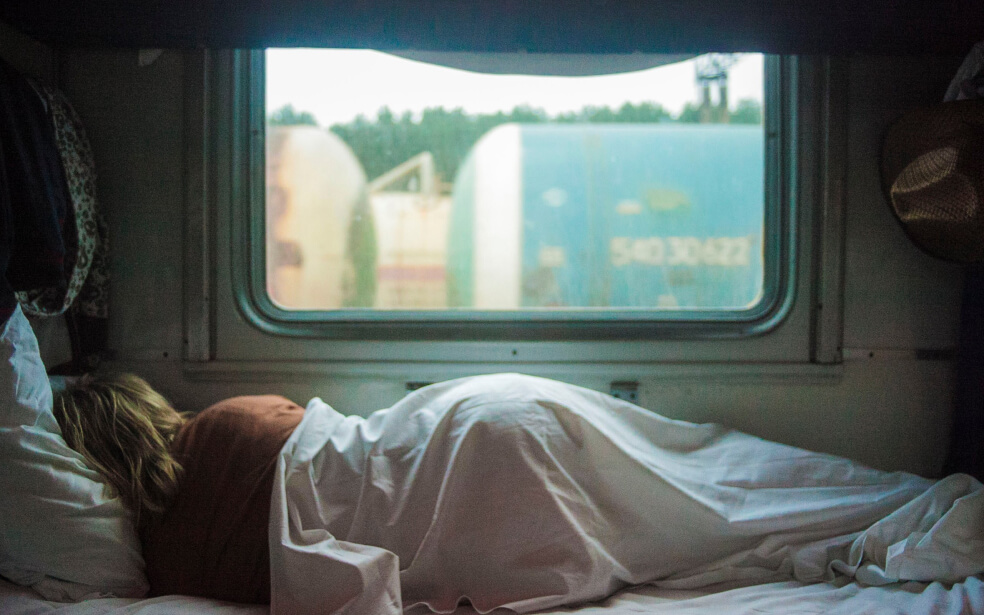
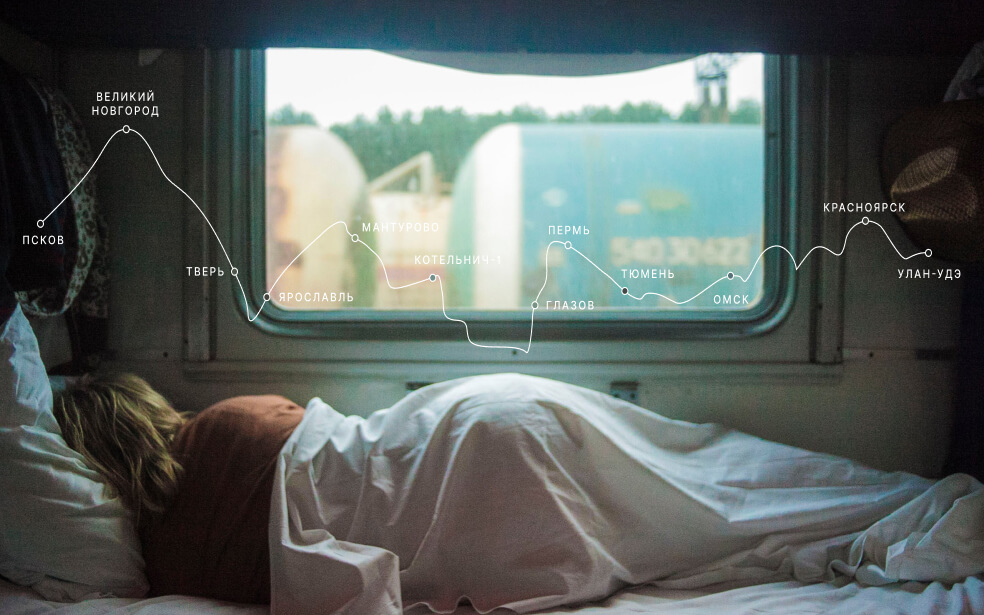
info

diff --git a/index.html b/index.html
@@ -7,21 +7,39 @@
   <title>Путешествия по России</title>
 </head>
 <body>
-  <section class="header">
+  <header class="header">
     <img class="header__logo" src="./images/__logo.svg" alt="Карта России">
     <div class="header__links">
       <a href="#" class="header__lang-link">RU</a>
       <a href="#" class="header__lang-link">EN</a>
     </div>
-  </section>
-  <section class="lead">
-    <h1 class="lead__title">Путешествия по России</h1>
-    <p class="lead__subtitle">Настоящая страна не в выпусках новостей, а здесь.</p>
-    <div class="lead__images">
-      <img class="lead__image-photo" src="./images/lead__image_photo.jpg" alt="Фото человека в поезде">
-      <img class="lead__image-road" src="./images/lead__image-map of russia.svg" alt="Карта маршрута">
-    </div>
-    <p class="lead__caption">ваша полка — верхняя</p>
-  </section>
+  </header>
+  <main>
+    <section class="lead">
+      <h1 class="lead__title">Путешествия по России</h1>
+      <p class="lead__subtitle">Настоящая страна не в выпусках новостей, а здесь.</p>
+      <figure class="lead__image-photo">
+        <img src="./images/lead__image_photo.jpg" alt="Маршрут">
+        <figcaption class="lead__caption">ваша полка — верхняя</figcaption>
+      </figure>
+    </section>
+    <section class="intro">
+      <div class="intro__information-box">
+        <h2 class="intro__title">Чего мы там не видели?</h2>
+        <p class="intro__text">По опросам ВЦИОМ, 95% россиян мечтают куда-нибудь поехать, но только 36% планируют провести отпуск в родной стране. Мол, чего мы тут,
+          дома, не видели? На самом деле, Россия — это целая вселенная с ласковым морем юга, густыми лесами Саян и суровыми льдами плато Путорана. А ещё увидеть все
+            эти красоты можно без миллионов на счету, загранпаспорта и многочасовых перелетов. Как, например, Вера Башмакова — смелая молодая мама, которая взяла в
+            охапку троих детей, усадила их в свою «Ладу» и проехала 20 тысяч километров по родной стране. Мы выбрали и описали некоторые интересные места, достойные
+              вашего отпуска.</p>
+        <ul class="intro__list">
+          <li class="intro__list-column">Часовых поясов 11</li>
+          <li class="intro__list-column">Объектов природного наследия ЮНЕСКО 12</li>
+          <li class="intro__list-column">Объектов культурного наследия ЮНЕСКО 16</li>
+          <li class="intro__list-column">Природных заповедников 105</li>
+          <li class="intro__list-column">Аэропортов 241</li>
+        </ul>
+      </div>
+    </section>
+  </main>
 </body>
 </html>

diff --git a/pages/index.css b/pages/index.css
@@ -7,7 +7,11 @@
 @import url(../blocks/lead/lead.css);
 @import url(../blocks/lead/__title/lead__title.css);
 @import url(../blocks/lead/__subtitle/lead__subtitle.css);
-@import url(../blocks/lead/__images/lead__images.css);
 @import url(../blocks/lead/__image-photo/lead__image-photo.css);
-@import url(../blocks/lead/__image-road/lead__image-road.css);
 @import url(../blocks/lead/__caption/lead__caption.css);
+@import url(../blocks/intro/intro.css);
+@import url(../blocks/intro/__information-box/intro__information-box.css);
+@import url(../blocks/intro/__title/intro__title.css);
+@import url(../blocks/intro/__text/intro__text.css);
+@import url(../blocks/intro/__list/intro__list.css);
+@import url(../blocks/intro/__list-column/intro__list-column.css);

diff --git a/blocks/intro/__title/intro__title.css b/blocks/intro/__title/intro__title.css
@@ -1,0 +1,9 @@
+.intro__title {
+  font-family: 'Inter', sans-serif;
+  color: white;
+  font-size: 54px;
+  line-height: 58px;
+  font-weight: 900;
+  margin: 0 0 40px;
+  padding: 0;
+}

diff --git a/blocks/intro/__list-column/intro__list-column.css b/blocks/intro/__list-column/intro__list-column.css
@@ -1,0 +1,9 @@
+.intro__list-column {
+  font-family: 'Inter', sans-serif;
+  color: white;
+  font-size: 12px;
+  line-height: 18px;
+  font-weight: 900;
+  margin: 0;
+  padding: 0;
+}

diff --git a/blocks/intro/__text/intro__text.css b/blocks/intro/__text/intro__text.css
@@ -1,0 +1,9 @@
+.intro__text{
+  font-family: 'Inter', sans-serif;
+  color: white;
+  font-size: 16px;
+  line-height: 26px;
+  margin: 0 0 33px;
+  padding: 0;
+  max-width: 690px;
+}

diff --git a/blocks/lead/__caption/lead__caption.css b/blocks/lead/__caption/lead__caption.css
@@ -6,6 +6,5 @@
   line-height: 14px;
   letter-spacing: 1.5px;
   margin: 8px 0 0 0;
-  text-align: center;
   text-transform: uppercase;
 }

diff --git a/blocks/lead/__image-photo/lead__image-photo.css b/blocks/lead/__image-photo/lead__image-photo.css
@@ -1,3 +1,6 @@
-.lead__image-photo.css{
+.lead__image-photo{
   width: 100%;
+  max-width: 984px;
+  margin: 0 auto;
+  padding: 0;
 }

diff --git a/blocks/intro/intro.css b/blocks/intro/intro.css
@@ -1,0 +1,5 @@
+.intro {
+  background-color: #2A2C2F;
+  margin: 0;
+  padding: 92px 0 0 0;
+}

diff --git a/blocks/intro/__list/intro__list.css b/blocks/intro/__list/intro__list.css
@@ -1,0 +1,5 @@
+.intro__list{
+  list-style-type: none;
+  margin: 0;
+  padding: 0;
+}

diff --git a/blocks/intro/__information-box/intro__information-box.css b/blocks/intro/__information-box/intro__information-box.css
@@ -1,0 +1,4 @@
+.intro__information-box {
+  max-width: 984px;
+  margin: 0 auto;
+}
